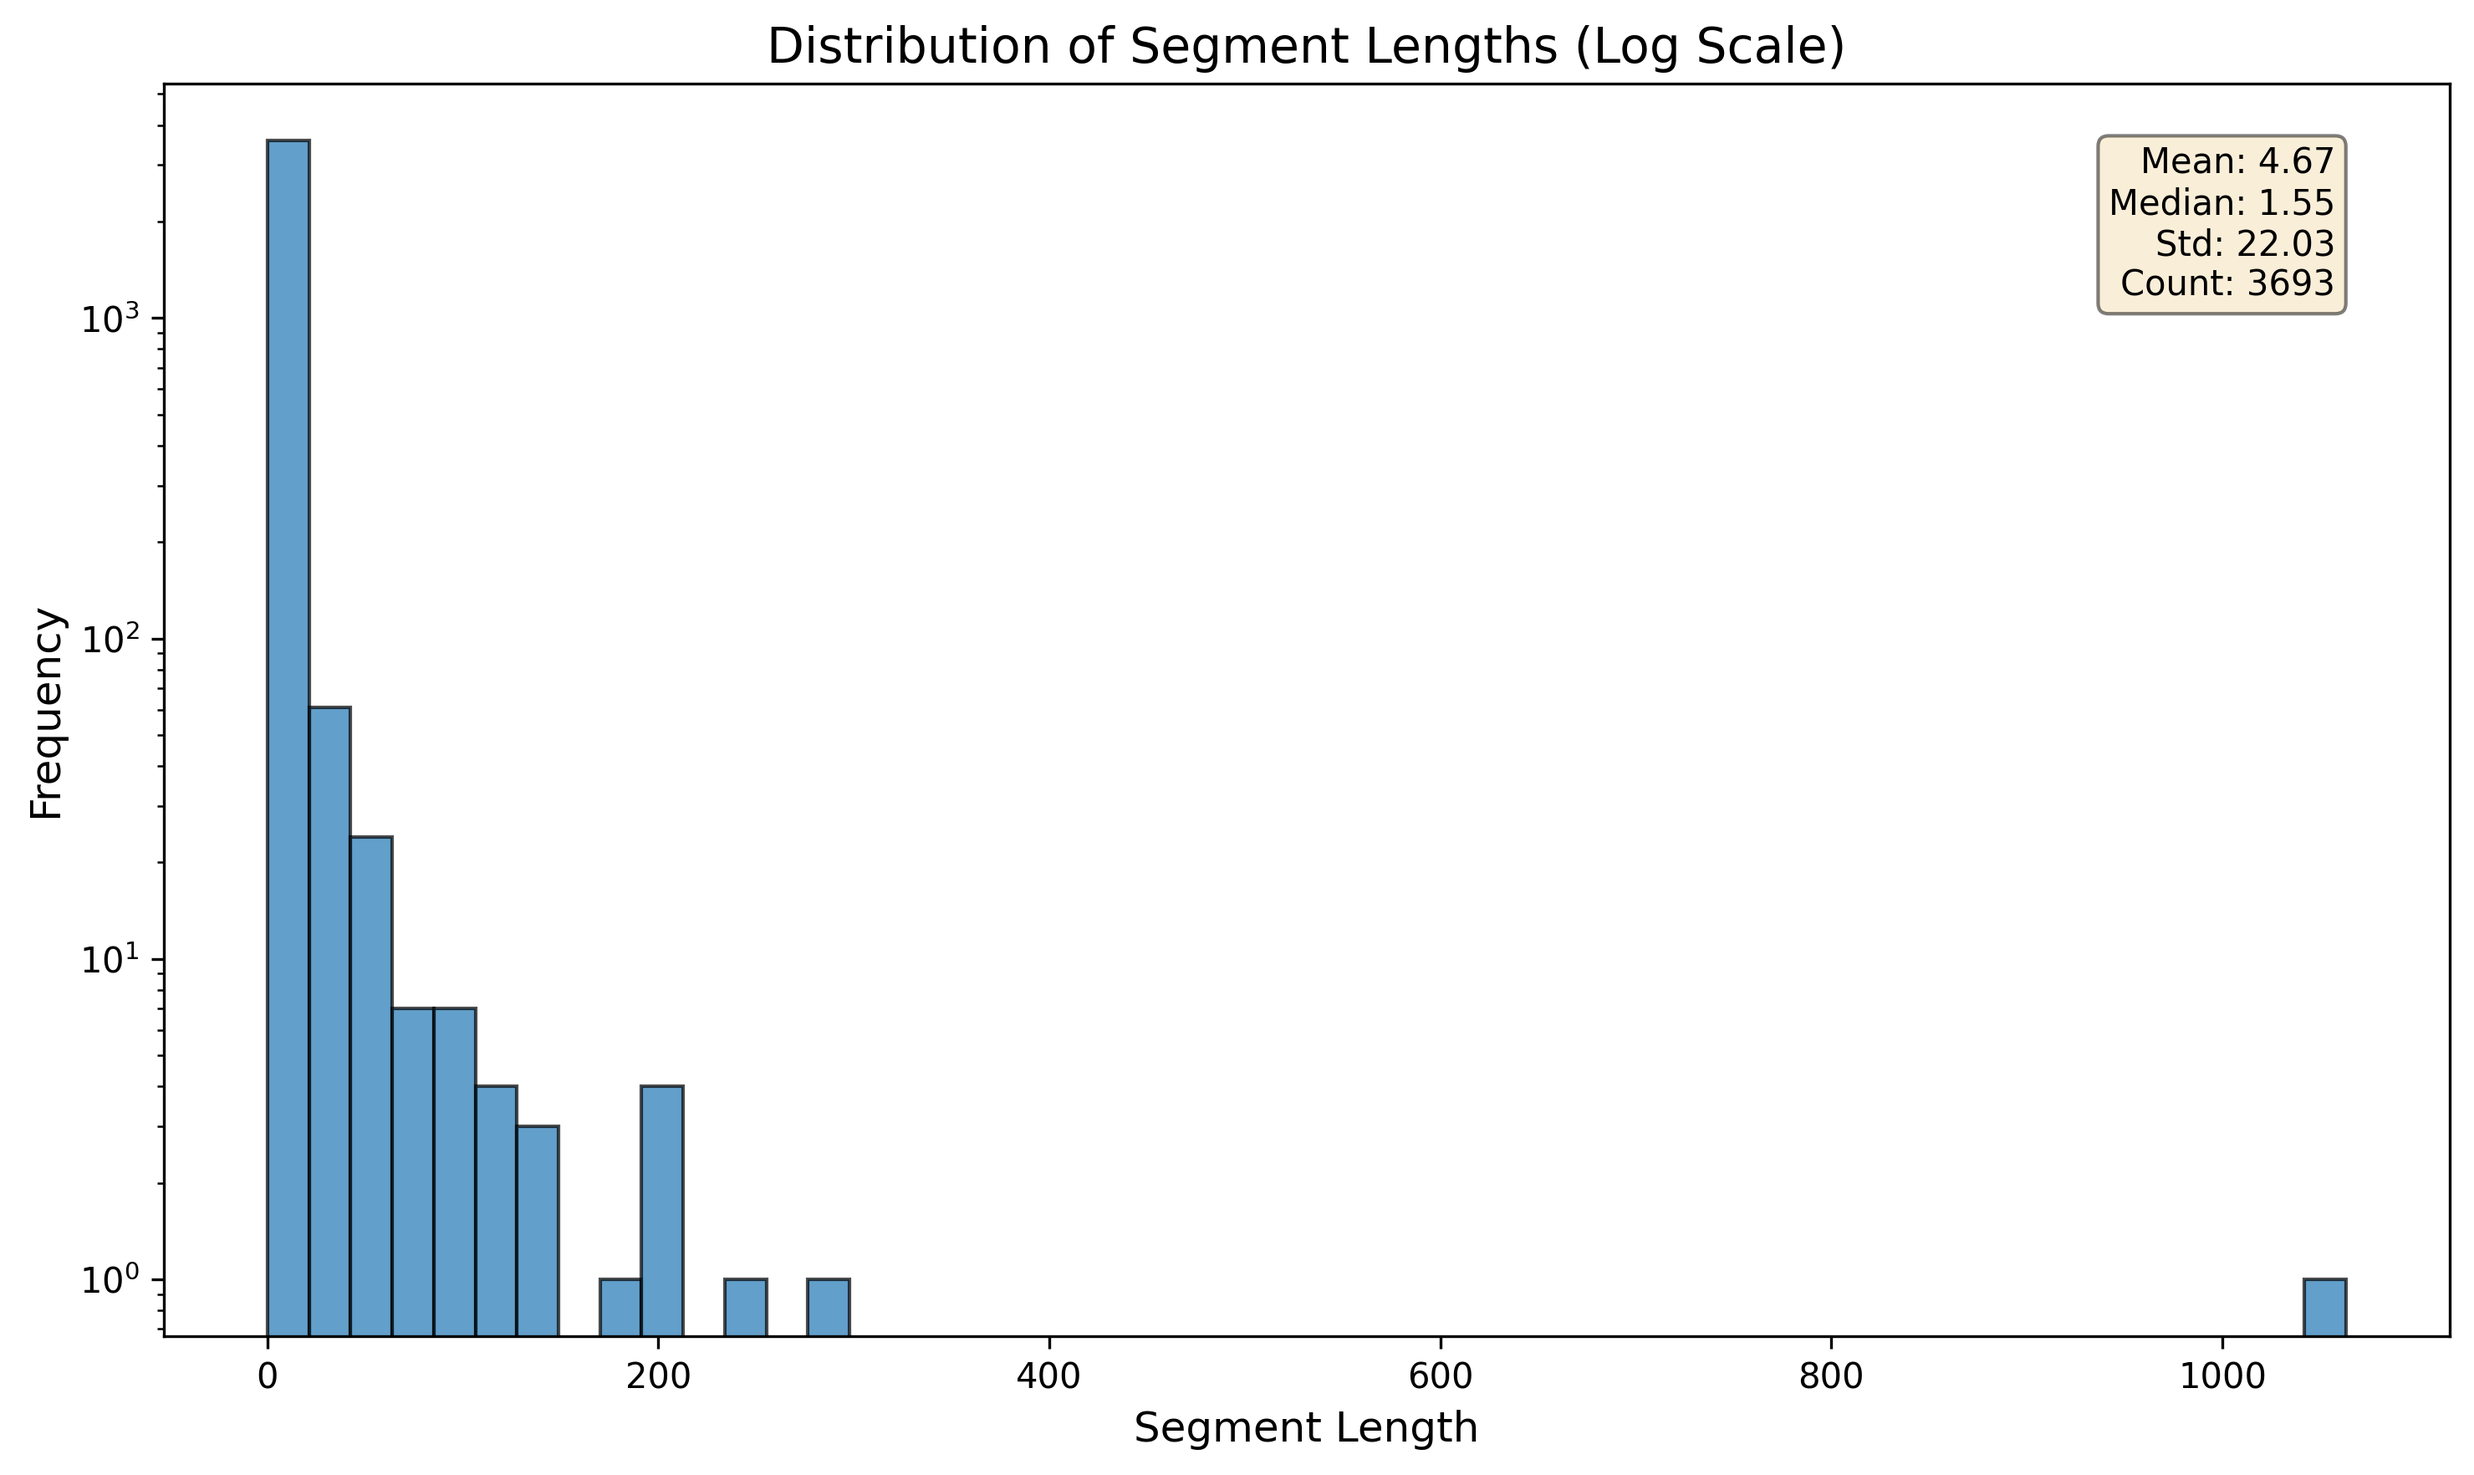
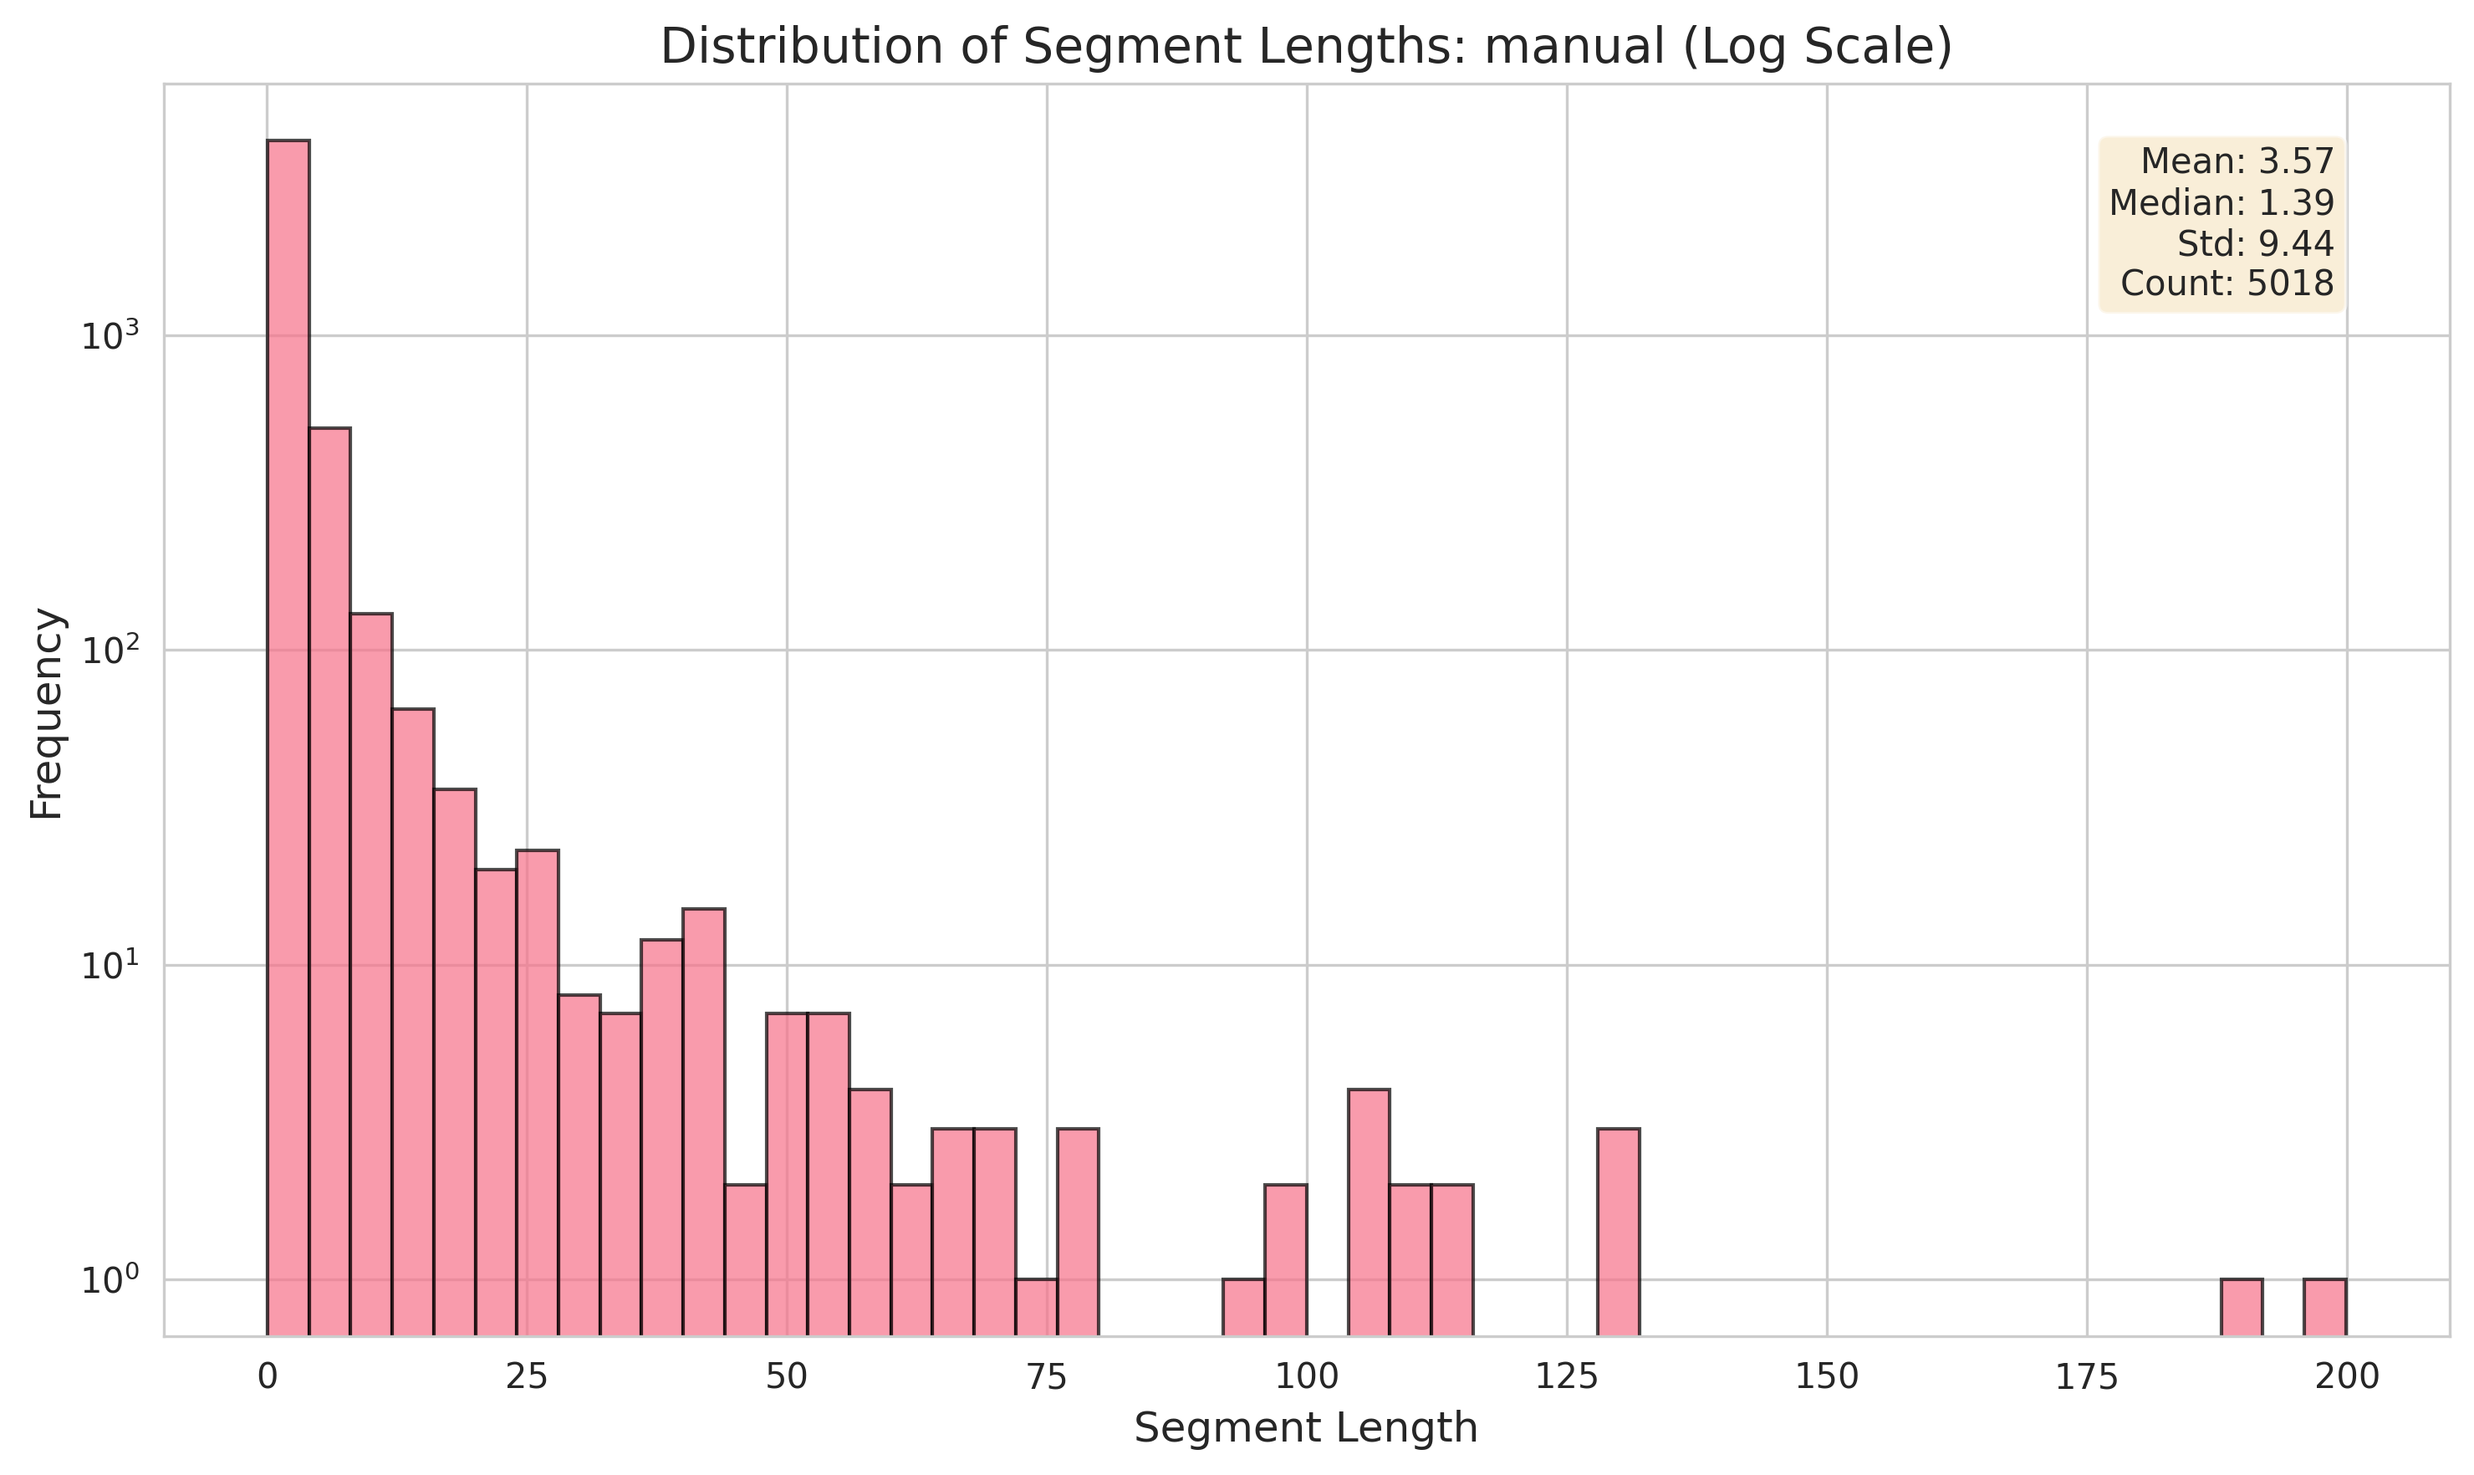
Images

diff --git a/second_party/utils/plot_segment_distribution.py b/second_party/utils/plot_segment_distribution.py
@@ -2,7 +2,10 @@ import pickle as pkl
 import matplotlib.pyplot as plt
 import numpy as np
 import argparse
-import os
+import seaborn as sns
+
+sns.set_style("whitegrid")
+sns.set_palette("husl")
 
 
 def convert_to_supported_format(path):
@@ -38,7 +41,9 @@ def get_segment_lengths(data):
     return segment_lengths
 
 
-def plot_segment_distribution(segment_lengths, output_path=None, log_scale=False):
+def plot_segment_distribution(
+    segment_lengths, output_path=None, log_scale=False, title=""
+):
     """Plot the distribution of segment lengths as a histogram."""
     plt.figure(figsize=(10, 6))
 
@@ -46,7 +51,7 @@ def plot_segment_distribution(segment_lengths, output_path=None, log_scale=False
 
     plt.xlabel("Segment Length", fontsize=12)
     plt.ylabel("Frequency", fontsize=12)
-    title = "Distribution of Segment Lengths"
+    title = f"Distribution of Segment Lengths: {title}"
     if log_scale:
         plt.yscale("log")
         title += " (Log Scale)"
@@ -118,7 +123,7 @@ def main():
     print(f"Min length: {min(segment_lengths):.2f}")
     print(f"Max length: {max(segment_lengths):.2f}")
 
-    plot_segment_distribution(segment_lengths, args.output, args.log)
+    plot_segment_distribution(segment_lengths, args.output, args.log, title=base_name)
 
 
 if __name__ == "__main__":
